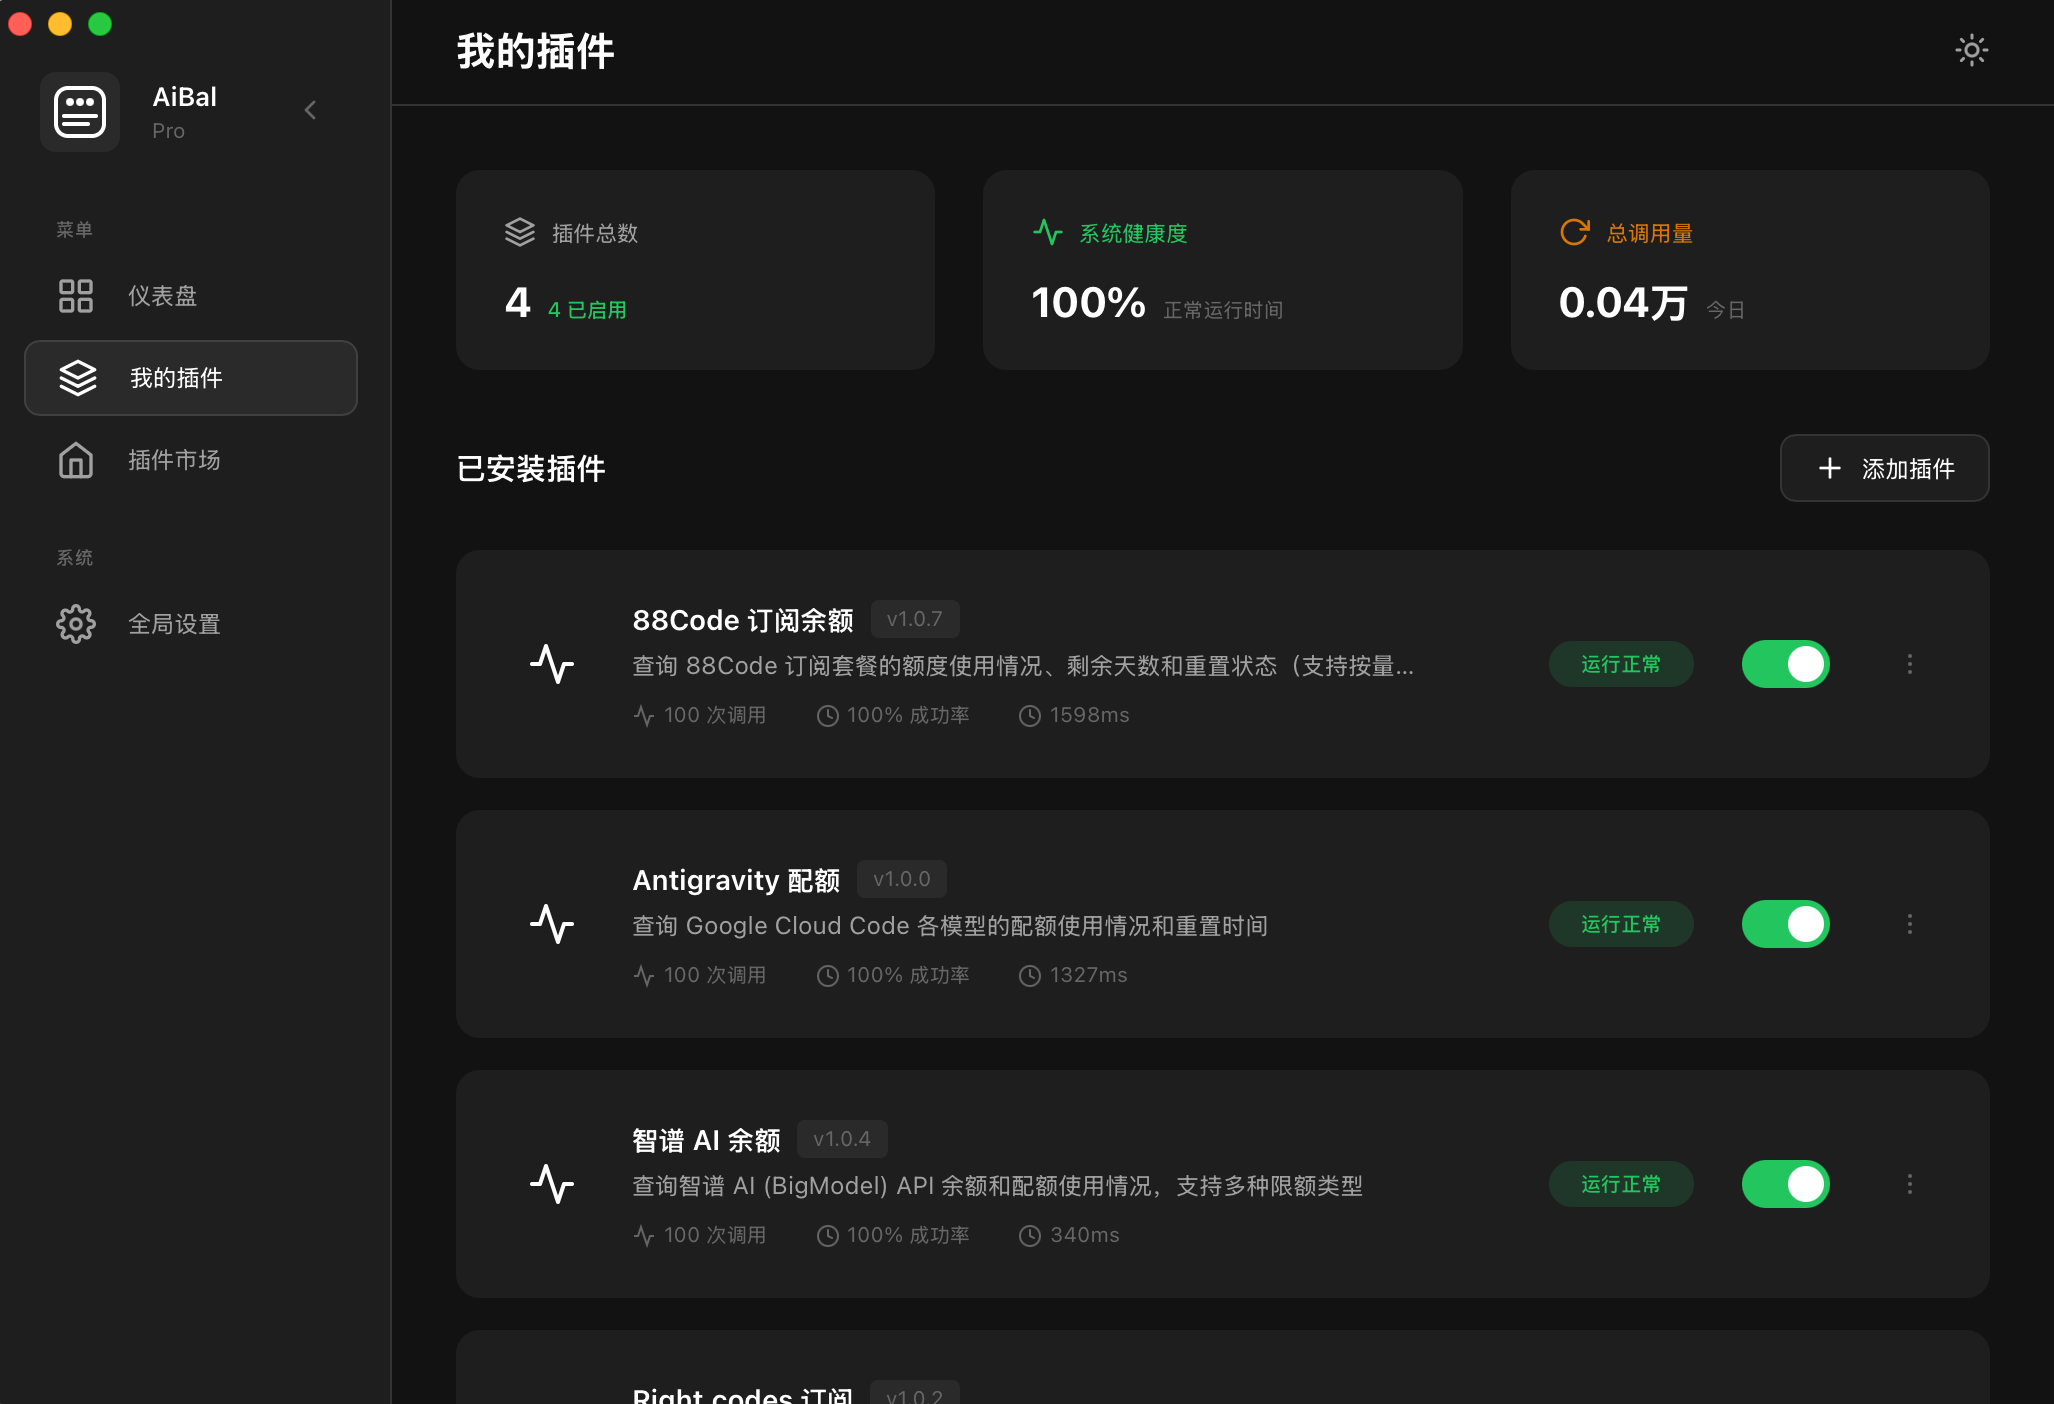
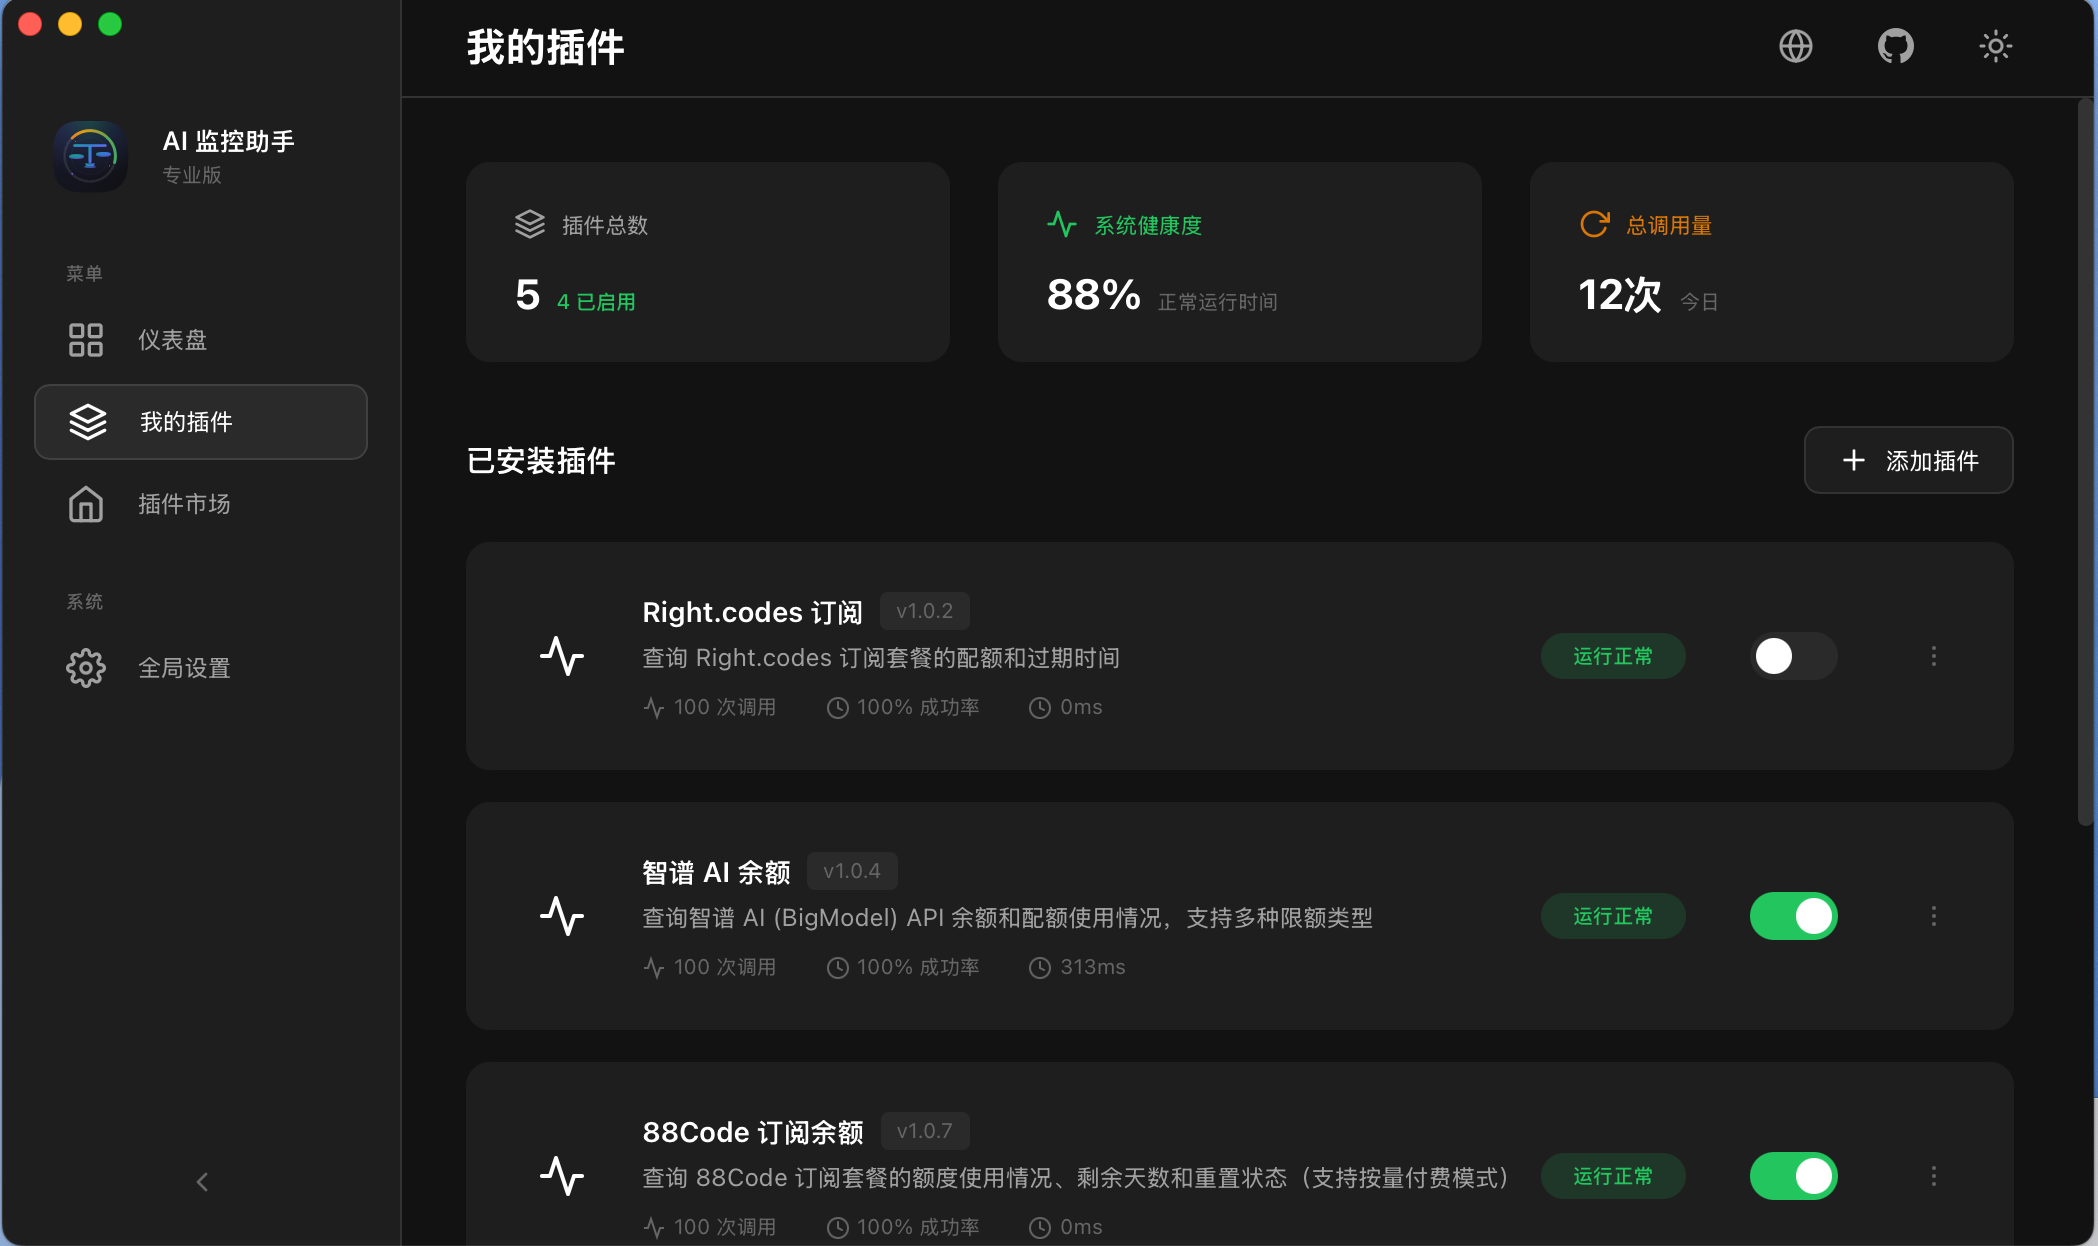
feat: Rebrand from CUK to AiBal and add external links
- Rename product from "CUK" (Claude Usage Tracker) to "AiBal"
- Update app title, description and copyright
- Add website and GitHub links to top bar
- Use Overlay title bar style for main window
- Update screenshot images

diff --git a/src/components/layout/AppLayout.vue b/src/components/layout/AppLayout.vue
@@ -76,6 +76,57 @@ onUnmounted(() => {
         </div>
 
         <div class="top-bar-actions">
+          <!-- 官网链接 -->
+          <a
+            class="external-link-btn"
+            href="http://devs.you/aibal"
+            target="_blank"
+            rel="noopener noreferrer"
+            title="访问官网"
+            @click.stop
+          >
+            <svg
+              width="18"
+              height="18"
+              viewBox="0 0 24 24"
+              fill="none"
+            >
+              <circle
+                cx="12"
+                cy="12"
+                r="10"
+                stroke="currentColor"
+                stroke-width="2"
+              />
+              <path
+                d="M2 12h20M12 2a15.3 15.3 0 014 10 15.3 15.3 0 01-4 10 15.3 15.3 0 01-4-10 15.3 15.3 0 014-10z"
+                stroke="currentColor"
+                stroke-width="2"
+              />
+            </svg>
+          </a>
+
+          <!-- GitHub 链接 -->
+          <a
+            class="external-link-btn"
+            href="https://github.com/DDG0808/aibal"
+            target="_blank"
+            rel="noopener noreferrer"
+            title="GitHub 仓库"
+            @click.stop
+          >
+            <svg
+              width="18"
+              height="18"
+              viewBox="0 0 24 24"
+              fill="currentColor"
+            >
+              <path
+                d="M12 0C5.37 0 0 5.37 0 12c0 5.31 3.435 9.795 8.205 11.385.6.105.825-.255.825-.57 0-.285-.015-1.23-.015-2.235-3.015.555-3.795-.735-4.035-1.41-.135-.345-.72-1.41-1.23-1.695-.42-.225-1.02-.78-.015-.795.945-.015 1.62.87 1.845 1.23 1.08 1.815 2.805 1.305 3.495.99.105-.78.42-1.305.765-1.605-2.67-.3-5.46-1.335-5.46-5.925 0-1.305.465-2.385 1.23-3.225-.12-.3-.54-1.53.12-3.18 0 0 1.005-.315 3.3 1.23.96-.27 1.98-.405 3-.405s2.04.135 3 .405c2.295-1.56 3.3-1.23 3.3-1.23.66 1.65.24 2.88.12 3.18.765.84 1.23 1.905 1.23 3.225 0 4.605-2.805 5.625-5.475 5.925.435.375.81 1.095.81 2.22 0 1.605-.015 2.895-.015 3.3 0 .315.225.69.825.57A12.02 12.02 0 0024 12c0-6.63-5.37-12-12-12z"
+              />
+            </svg>
+          </a>
+
           <!-- 主题切换 -->
           <button
             class="theme-toggle-btn"
@@ -202,6 +253,25 @@ onUnmounted(() => {
   align-items: center;
   gap: var(--spacing-md);
   -webkit-app-region: no-drag; /* 确保按钮可点击 */
+}
+
+.external-link-btn {
+  background: none;
+  border: none;
+  padding: var(--spacing-sm);
+  cursor: pointer;
+  color: var(--color-text-secondary);
+  border-radius: var(--radius-md);
+  transition: all var(--transition-fast);
+  display: flex;
+  align-items: center;
+  justify-content: center;
+  text-decoration: none;
+}
+
+.external-link-btn:hover {
+  background: var(--color-bg-hover);
+  color: var(--color-accent);
 }
 
 .theme-toggle-btn {

diff --git a/src/views/AboutView.vue b/src/views/AboutView.vue
@@ -84,9 +84,9 @@ onMounted(async () => {
     </div>
 
     <div class="about-info">
-      <h1>CUK</h1>
+      <h1>AiBal</h1>
       <p class="description">
-        Claude Usage Tracker
+        豆豆出品
       </p>
       <p class="version">
         版本 {{ version }}
@@ -94,12 +94,12 @@ onMounted(async () => {
     </div>
 
     <div class="about-details">
-      <p>macOS 菜单栏应用，用于追踪 Claude AI 使用量</p>
+      <p>macOS 菜单栏应用，用于追踪 AI 服务使用量</p>
     </div>
 
     <div class="about-footer">
       <p class="copyright">
-        &copy; 2025 CUK Project
+        &copy; 2025 AiBal
       </p>
       <p class="license">
         MIT License

diff --git a/src/components/layout/AppSidebar.vue b/src/components/layout/AppSidebar.vue
@@ -126,7 +126,7 @@ function handleKeydown(event: KeyboardEvent, path: string) {
         v-show="!isCollapsed"
         class="app-info"
       >
-        <span class="app-name">AI 监控助手</span>
+        <span class="app-name">AiBal</span>
         <span class="app-version">专业版</span>
       </div>
     </div>
@@ -397,7 +397,7 @@ function handleKeydown(event: KeyboardEvent, path: string) {
   padding-top: var(--spacing-sm);
   display: flex;
   align-items: center;
-  gap: var(--spacing-md);
+  gap: var(--spacing-sm);
   -webkit-app-region: no-drag; /* 确保按钮可点击 */
 }
 

diff --git a/src-tauri/src/window/mod.rs b/src-tauri/src/window/mod.rs
@@ -92,8 +92,9 @@ impl WindowType {
                 always_on_top: false,
                 center: true,
                 skip_taskbar: false,
-                title_bar_style: None,
-                hidden_title: false,
+                // Overlay 模式：内容延伸到标题栏，traffic lights 覆盖在内容上
+                title_bar_style: Some(tauri::TitleBarStyle::Overlay),
+                hidden_title: true,
             },
             WindowType::Wizard => WindowConfig {
                 label: "wizard",
@@ -112,7 +113,7 @@ impl WindowType {
             },
             WindowType::About => WindowConfig {
                 label: "about",
-                title: "关于 CUK",
+                title: "关于 AiBal",
                 url: "/about",
                 width: 400.0,
                 height: 300.0,

diff --git a/src-tauri/src/tray/mod.rs b/src-tauri/src/tray/mod.rs
@@ -133,7 +133,7 @@ fn create_tray_menu<R: Runtime>(app: &AppHandle<R>) -> Result<Menu<R>, tauri::Er
             &PredefinedMenuItem::separator(app)?,
             &MenuItem::with_id(app, "settings", "设置...", true, None::<&str>)?,
             &PredefinedMenuItem::separator(app)?,
-            &MenuItem::with_id(app, "about", "关于 CUK", true, None::<&str>)?,
+            &MenuItem::with_id(app, "about", "关于 AiBal", true, None::<&str>)?,
             &MenuItem::with_id(app, "quit", "退出", true, None::<&str>)?,
         ],
     )?;
